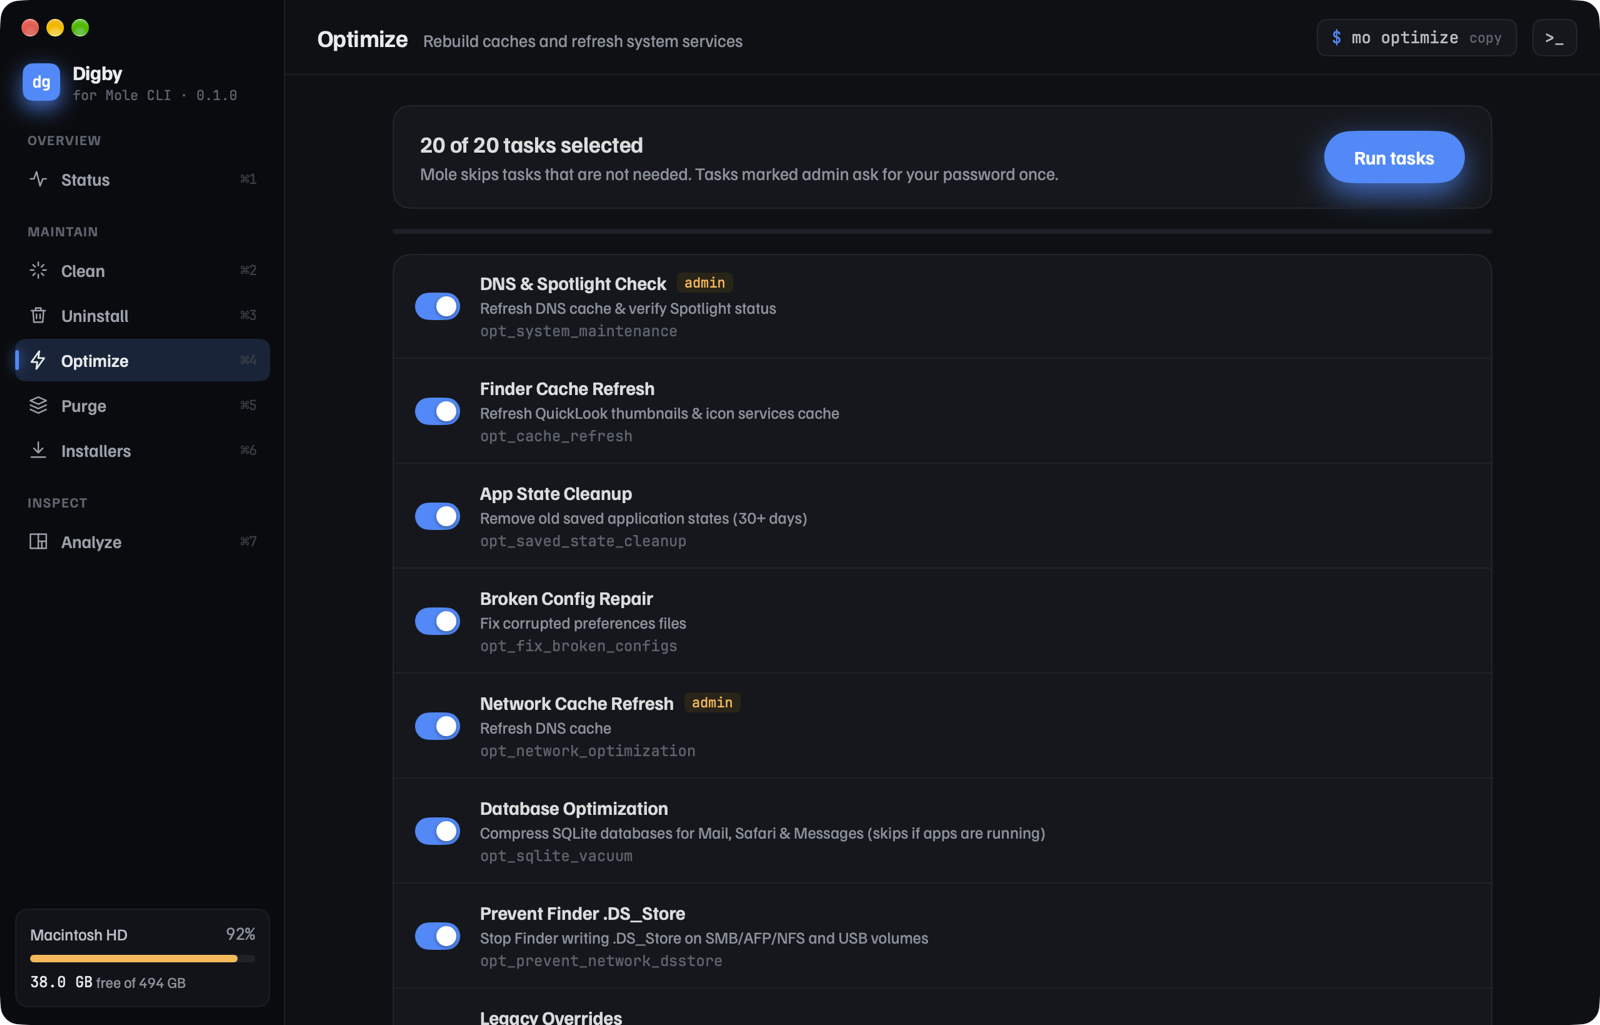
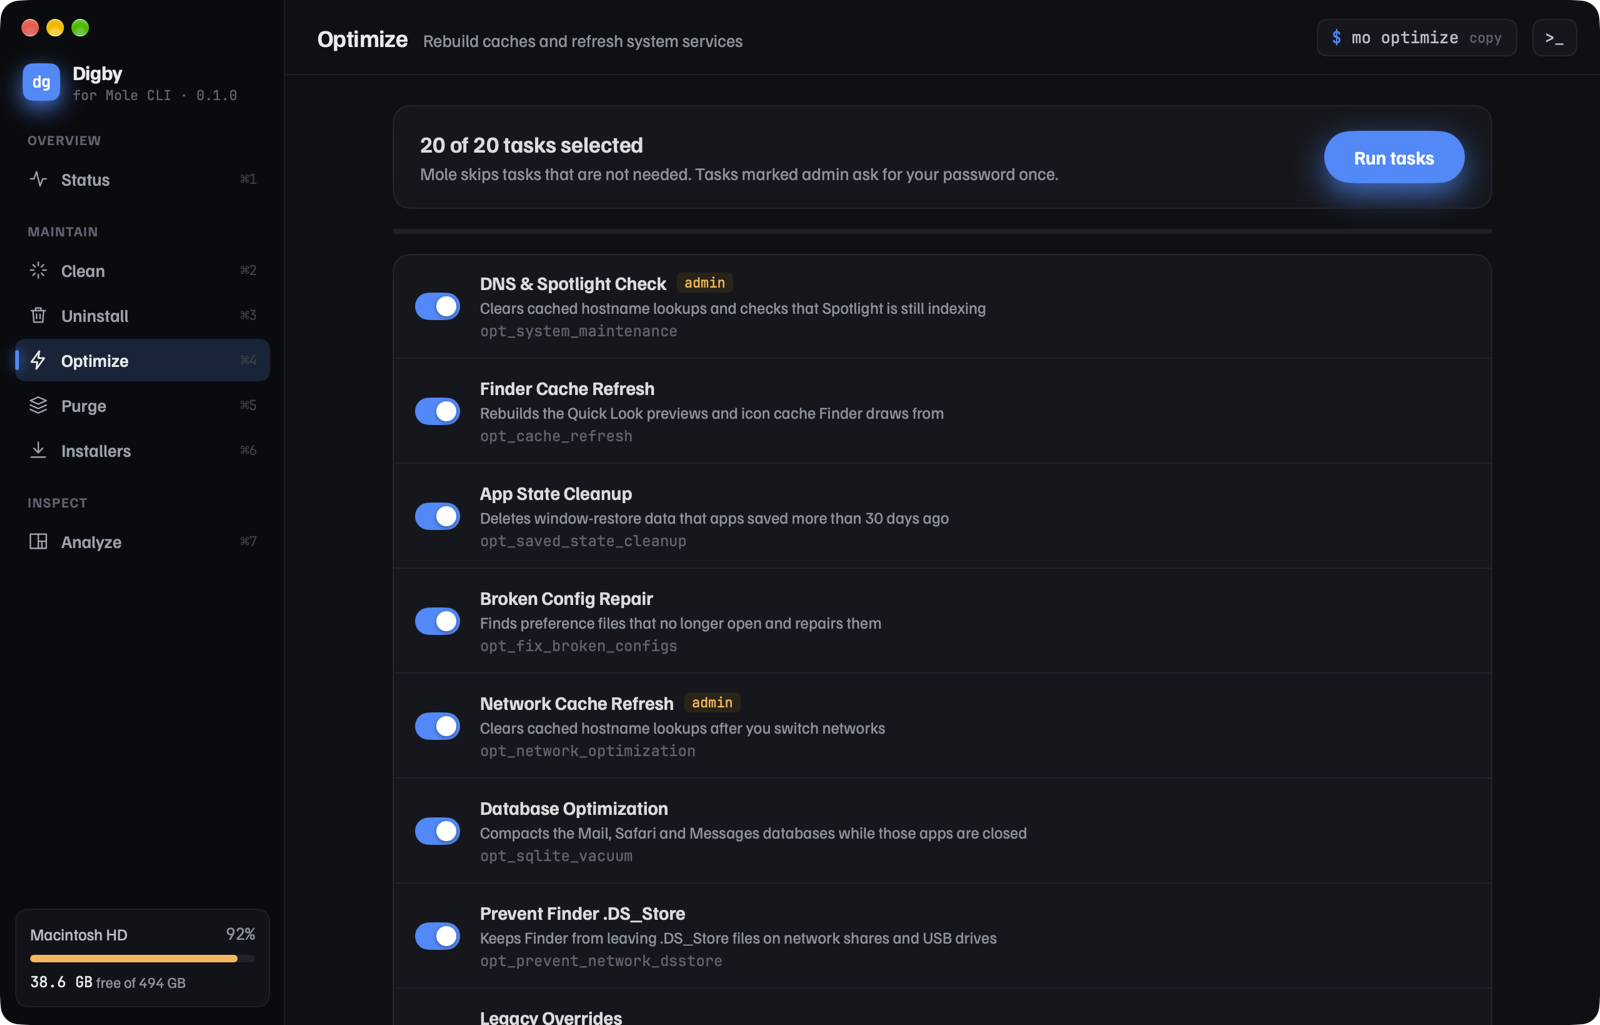
Rewrite Optimize task descriptions in Digby's own words
Task names still match Mole's section headers, which Digby uses to track
progress. Refreshes the Optimize screenshot.

diff --git a/Digby/Features/Optimize/OptimizeModel.swift b/Digby/Features/Optimize/OptimizeModel.swift
@@ -26,29 +26,30 @@ final class OptimizeModel {
 
     init(app: AppModel) { self.app = app }
 
-    /// Mirrors Mole's task catalog (lib/optimize/catalog.sh). Mole runs every task in one pass and
-    /// offers no per-task flag, so toggles are read-only; `mo optimize --whitelist` excludes tasks.
+    /// The tasks in Mole's optimize catalog (lib/optimize/catalog.sh). Names match the section headers
+    /// Mole prints, which is how progress is tracked; descriptions are Digby's own. Mole runs every task
+    /// in one pass and offers no per-task flag, so toggles are read-only; `mo optimize --whitelist` excludes tasks.
     static let catalog: [OptTask] = [
-        ("DNS & Spotlight Check", "Refresh DNS cache & verify Spotlight status", "opt_system_maintenance", true),
-        ("Finder Cache Refresh", "Refresh QuickLook thumbnails & icon services cache", "opt_cache_refresh", false),
-        ("App State Cleanup", "Remove old saved application states (30+ days)", "opt_saved_state_cleanup", false),
-        ("Broken Config Repair", "Fix corrupted preferences files", "opt_fix_broken_configs", false),
-        ("Network Cache Refresh", "Refresh DNS cache", "opt_network_optimization", true),
-        ("Database Optimization", "Compress SQLite databases for Mail, Safari & Messages (skips if apps are running)", "opt_sqlite_vacuum", false),
-        ("Prevent Finder .DS_Store", "Stop Finder writing .DS_Store on SMB/AFP/NFS and USB volumes", "opt_prevent_network_dsstore", false),
-        ("Legacy Overrides", "Remove hidden App Nap and disk-image verification overrides left by old tweak tools", "opt_legacy_overrides_audit", false),
-        ("Network Stack Refresh", "Flush routing table and ARP cache to resolve network issues", "opt_network_stack_optimize", true),
-        ("Permission Repair", "Fix user directory permission issues", "opt_disk_permissions_repair", false),
-        ("Spotlight Optimization", "Rebuild index if search is slow (smart detection)", "opt_spotlight_index_optimize", true),
-        ("Spotlight Orphan Rules", "Remove Spotlight search-rule entries for apps that are no longer installed", "opt_prune_spotlight_orphan_rules", false),
-        ("Periodic Maintenance", "Run macOS daily/weekly/monthly maintenance scripts if stale", "opt_periodic_maintenance", true),
-        ("Shared File Lists", "Repair corrupted Finder favorites and recent documents", "opt_shared_file_list_repair", false),
-        ("Disk Health", "Verify filesystem integrity", "opt_disk_verify", true),
-        ("Login Items", "Audit login items for broken entries", "opt_login_items_audit", false),
-        ("Quarantine Database Cleanup", "Clear Gatekeeper download tracking history", "opt_quarantine_cleanup", false),
-        ("Launch Agents Cleanup", "Report LaunchAgents whose binaries no longer exist", "opt_launch_agents_cleanup", false),
-        ("Notifications", "Clean old delivered notifications to reduce database bloat", "opt_notification_cleanup", false),
-        ("Usage Data", "Clean old usage tracking data", "opt_coreduet_cleanup", false),
+        ("DNS & Spotlight Check", "Clears cached hostname lookups and checks that Spotlight is still indexing", "opt_system_maintenance", true),
+        ("Finder Cache Refresh", "Rebuilds the Quick Look previews and icon cache Finder draws from", "opt_cache_refresh", false),
+        ("App State Cleanup", "Deletes window-restore data that apps saved more than 30 days ago", "opt_saved_state_cleanup", false),
+        ("Broken Config Repair", "Finds preference files that no longer open and repairs them", "opt_fix_broken_configs", false),
+        ("Network Cache Refresh", "Clears cached hostname lookups after you switch networks", "opt_network_optimization", true),
+        ("Database Optimization", "Compacts the Mail, Safari and Messages databases while those apps are closed", "opt_sqlite_vacuum", false),
+        ("Prevent Finder .DS_Store", "Keeps Finder from leaving .DS_Store files on network shares and USB drives", "opt_prevent_network_dsstore", false),
+        ("Legacy Overrides", "Turns App Nap and disk-image checks back on where old tweak tools disabled them", "opt_legacy_overrides_audit", false),
+        ("Network Stack Refresh", "Resets the routing table and ARP cache when connections misbehave", "opt_network_stack_optimize", true),
+        ("Permission Repair", "Restores the expected permissions on folders in your home directory", "opt_disk_permissions_repair", false),
+        ("Spotlight Optimization", "Rebuilds the Spotlight index, but only when searches look slow", "opt_spotlight_index_optimize", true),
+        ("Spotlight Orphan Rules", "Drops Spotlight search rules left behind by apps you deleted", "opt_prune_spotlight_orphan_rules", false),
+        ("Periodic Maintenance", "Runs the daily, weekly and monthly macOS scripts when they are overdue", "opt_periodic_maintenance", true),
+        ("Shared File Lists", "Fixes damaged Finder sidebar favorites and recent-item lists", "opt_shared_file_list_repair", false),
+        ("Disk Health", "Checks the startup disk's file system for errors", "opt_disk_verify", true),
+        ("Login Items", "Looks for login items that point to apps that are gone", "opt_login_items_audit", false),
+        ("Quarantine Database Cleanup", "Clears Gatekeeper's record of where downloaded files came from", "opt_quarantine_cleanup", false),
+        ("Launch Agents Cleanup", "Lists launch agents whose program no longer exists", "opt_launch_agents_cleanup", false),
+        ("Notifications", "Prunes old delivered notifications so their database stays small", "opt_notification_cleanup", false),
+        ("Usage Data", "Removes old app-usage history that macOS keeps for suggestions", "opt_coreduet_cleanup", false),
     ].map { OptTask(id: $0.0, name: $0.0, detail: $0.1, handler: $0.2, admin: $0.3) }
 
     var doneCount: Int { tasks.filter { $0.status == .done }.count }

diff --git a/NOTES.md b/NOTES.md
@@ -26,7 +26,7 @@ Sizes are Mole's `bytes_to_human` output, which uses decimal units (1 GB = 10⁹
 - **Uninstall.** Mole's non-interactive uninstall (`mo uninstall <name>`) asks for confirmation on stdin and has no per-file selection. The design needs per-file checkboxes, so Digby takes the app inventory from `mo uninstall --list`, finds leftovers in `~/Library` by bundle ID and name, and moves the checked items to the Trash with `NSWorkspace.recycle`. It refuses to uninstall an app that is still running.
 - **Purge and Installers.** Discovery comes from Mole's dry runs. Removal of the checked rows uses the Trash instead of Mole's permanent delete (the brief prefers Trash, and neither command accepts a per-item list). Purge marks artifacts whose folder or project changed in the last 7 days as `recent` and leaves them unchecked, matching Mole's default.
 - **Installers paths.** The selector truncates long names (`Stronghold_Crusade...`); Digby resolves them against the reported source folder by prefix and size.
-- **Optimize.** Mole runs all catalog tasks in one pass and has no per-task flag (exclusions live in `mo optimize --whitelist`, an interactive menu). The task list mirrors `lib/optimize/catalog.sh`; toggles are shown on and read-only, and the mono line shows Mole's handler name, then the task's result once it runs. `admin` badges mark tasks that call `sudo`; Mole shows the macOS password dialog itself when no terminal is attached.
+- **Optimize.** Mole runs all catalog tasks in one pass and has no per-task flag (exclusions live in `mo optimize --whitelist`, an interactive menu). The task list mirrors `lib/optimize/catalog.sh` (names match Mole's section headers, which is how progress is tracked; the descriptions are Digby's own); toggles are shown on and read-only, and the mono line shows Mole's handler name, then the task's result once it runs. `admin` badges mark tasks that call `sudo`; Mole shows the macOS password dialog itself when no terminal is attached.
 - **Memory breakdown.** `mo status --json` reports used/total/swap but not App/Wired/Compressed, so those come from `host_statistics64`.
 - **Analyze trash.** Items are moved to the Trash with `NSWorkspace.recycle`, as `mo analyze` does after confirmation.
 
